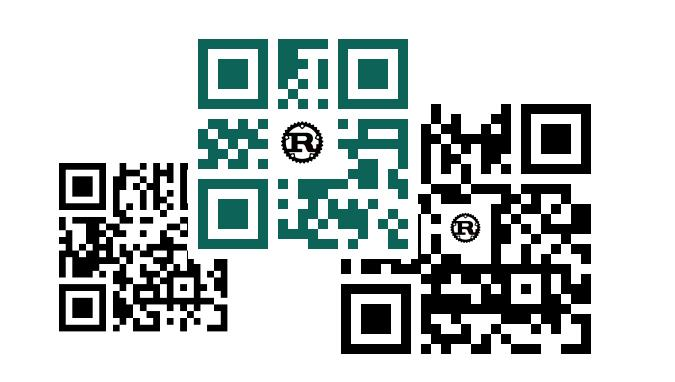
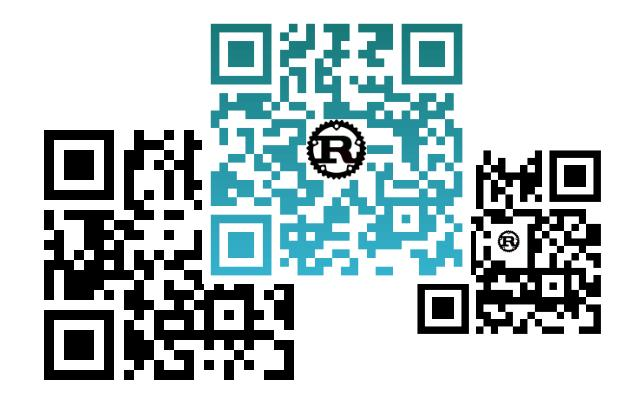
rgb color

diff --git a/src/configs/image_config.rs b/src/configs/image_config.rs
@@ -1,12 +1,10 @@
-use image::Rgb;
-
 use crate::traits::builder::Builder;
 
 pub struct ImageConfig {
   pub pixel_size: u32,
   pub margin_size: u32,
-  pub color: Vec<u8>,
-  pub background_color: Vec<u8>,
+  pub color: [u8; 3],
+  pub background_color: [u8; 3],
   pub is_gradient_enabled: bool
 }
 
@@ -15,8 +13,8 @@ impl Default for ImageConfig {
     Self {
       pixel_size: 10,
       margin_size: 1,
-      color: vec![0, 0, 0],
-      background_color: vec![255, 255, 255],
+      color: [0, 0, 0],
+      background_color: [255, 255, 255],
       is_gradient_enabled: false
     }
   }
@@ -25,9 +23,9 @@ impl Default for ImageConfig {
 pub struct ImageConfigBuilder {
   pixel_size: Option<u32>,
   margin_size: Option<u32>,
-  color: Option<Vec<u8>>,
-  background_color: Option<Vec<u8>>,
-  is_gradient_enabled: Option<bool>
+  color: Option<[u8; 3]>,
+  background_color: Option<[u8; 3]>,
+  is_gradient_enabled: bool
 }
 
 impl Builder<ImageConfig> for ImageConfigBuilder {
@@ -37,7 +35,7 @@ impl Builder<ImageConfig> for ImageConfigBuilder {
       margin_size: None,
       color: None,
       background_color: None,
-      is_gradient_enabled: None
+      is_gradient_enabled: false
     }
   }
 
@@ -49,7 +47,7 @@ impl Builder<ImageConfig> for ImageConfigBuilder {
       margin_size: self.margin_size.unwrap_or(image_config_default.margin_size),
       color: self.color.unwrap_or(image_config_default.color),
       background_color: self.background_color.unwrap_or(image_config_default.background_color),
-      is_gradient_enabled: self.is_gradient_enabled.unwrap_or(image_config_default.is_gradient_enabled)
+      is_gradient_enabled: self.is_gradient_enabled
     }
   }
 
@@ -66,14 +64,19 @@ impl ImageConfigBuilder {
     self
   }
 
-  pub fn color(mut self, rgb: Vec<u8>) -> Self {
+  pub fn color(mut self, rgb: [u8; 3]) -> Self {
     self.color = Some(rgb);
     self
   }
 
-  pub fn background_color(mut self, rgb: Vec<u8>) -> Self {
+  pub fn background_color(mut self, rgb: [u8; 3]) -> Self {
     self.background_color = Some(rgb);
     self
+  }
+
+  pub fn is_gradient_enabled(mut self) -> Self {
+    self.is_gradient_enabled = true;
+    return self
   }
 
 }

diff --git a/src/lib.rs b/src/lib.rs
@@ -56,9 +56,16 @@ impl<'a> QrWatermark {
     }
   }
 
-  #[allow(unused)]
-  fn generate_color_gradient(&mut self) {
-    !unimplemented!()
+  fn get_color_gradient(&mut self) -> [u8; 3] {
+    let mut new_color = self.image_config.color;
+
+    new_color[0] = new_color[0].wrapping_add(1);
+    new_color[1] = new_color[1].wrapping_add(2);
+    new_color[2] = new_color[2].wrapping_add(3);
+
+    self.image_config.color = new_color;
+
+    return new_color;
   }
 
   fn generate_image(&mut self) -> ImageBuffer<Rgb<u8>, Vec<u8>> {
@@ -66,6 +73,7 @@ impl<'a> QrWatermark {
       * self.image_config.pixel_size
       + (self.image_config.margin_size * self.image_config.pixel_size) * 2;
 
+    let mut last_y = 0;
     let mut image = ImageBuffer::from_fn(image_size, image_size, |x, y| {
       let x_with_margin = x as i32 - (self.image_config.margin_size * self.image_config.pixel_size) as i32;
       let y_with_margin = y as i32 - (self.image_config.margin_size * self.image_config.pixel_size) as i32;
@@ -79,12 +87,25 @@ impl<'a> QrWatermark {
 
       if y_with_margin > 0 {
         module_y = y_with_margin / self.image_config.pixel_size as i32;
-      }
+      };
+
+      let image_color = if self.image_config.is_gradient_enabled {
+        if last_y != module_y {
+          last_y = module_y;
+          self.get_color_gradient()
+        } else {
+          self.image_config.color
+        }
+      } else {
+        self.image_config.color
+      };
+
+      // println!("{:?}", module_x);
 
       if self.qr_code.get_module(module_x, module_y) {
-        self.image_config.color.to_rgb().unwrap()
+        Rgb::from(image_color)
       } else {
-        self.image_config.background_color.to_rgb().unwrap()
+        Rgb::from(self.image_config.background_color)
       }
     });
 

diff --git a/examples/custom.rs b/examples/custom.rs
@@ -6,7 +6,8 @@ use qrwatermark::traits::builder::Builder;
 fn main() {
   // Custom image config
   let image_config = ImageConfigBuilder::new()
-    .color(vec![14, 99, 88])
+    .color([14, 99, 88])
+    .is_gradient_enabled()
     .build();
 
   // Custom logo config
@@ -15,7 +16,7 @@ fn main() {
     .height(70)
     .build();
 
-  let mut qrw = QrWatermark::new("Custom text")
+  let mut qrw = QrWatermark::new("Custom text with a gradient")
     .logo("imgs/rust_logo.png")
     .logo_config(logo_config)
     .image_config(image_config);
